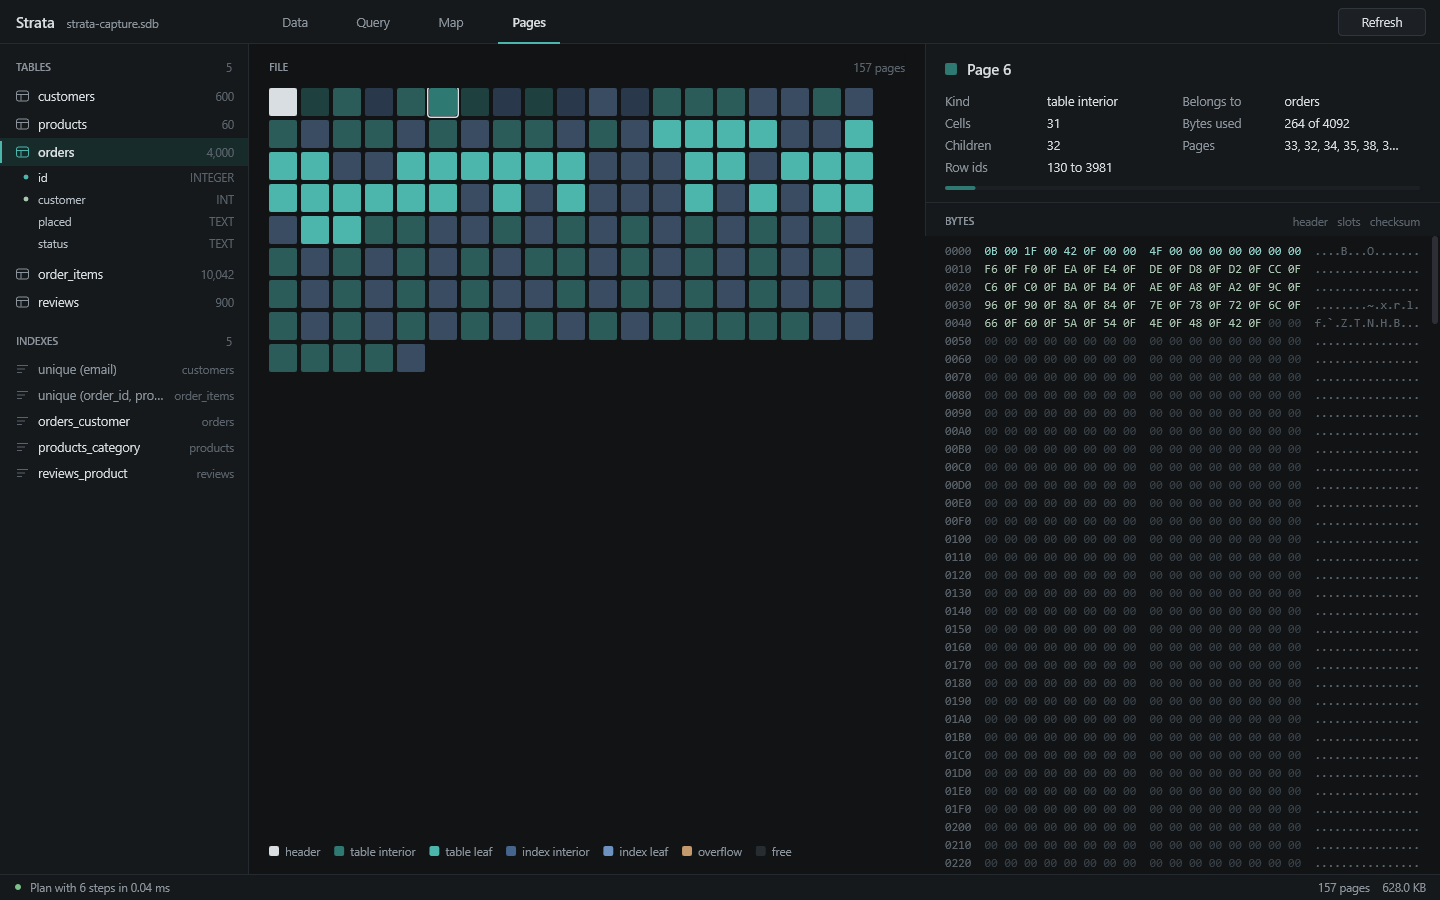
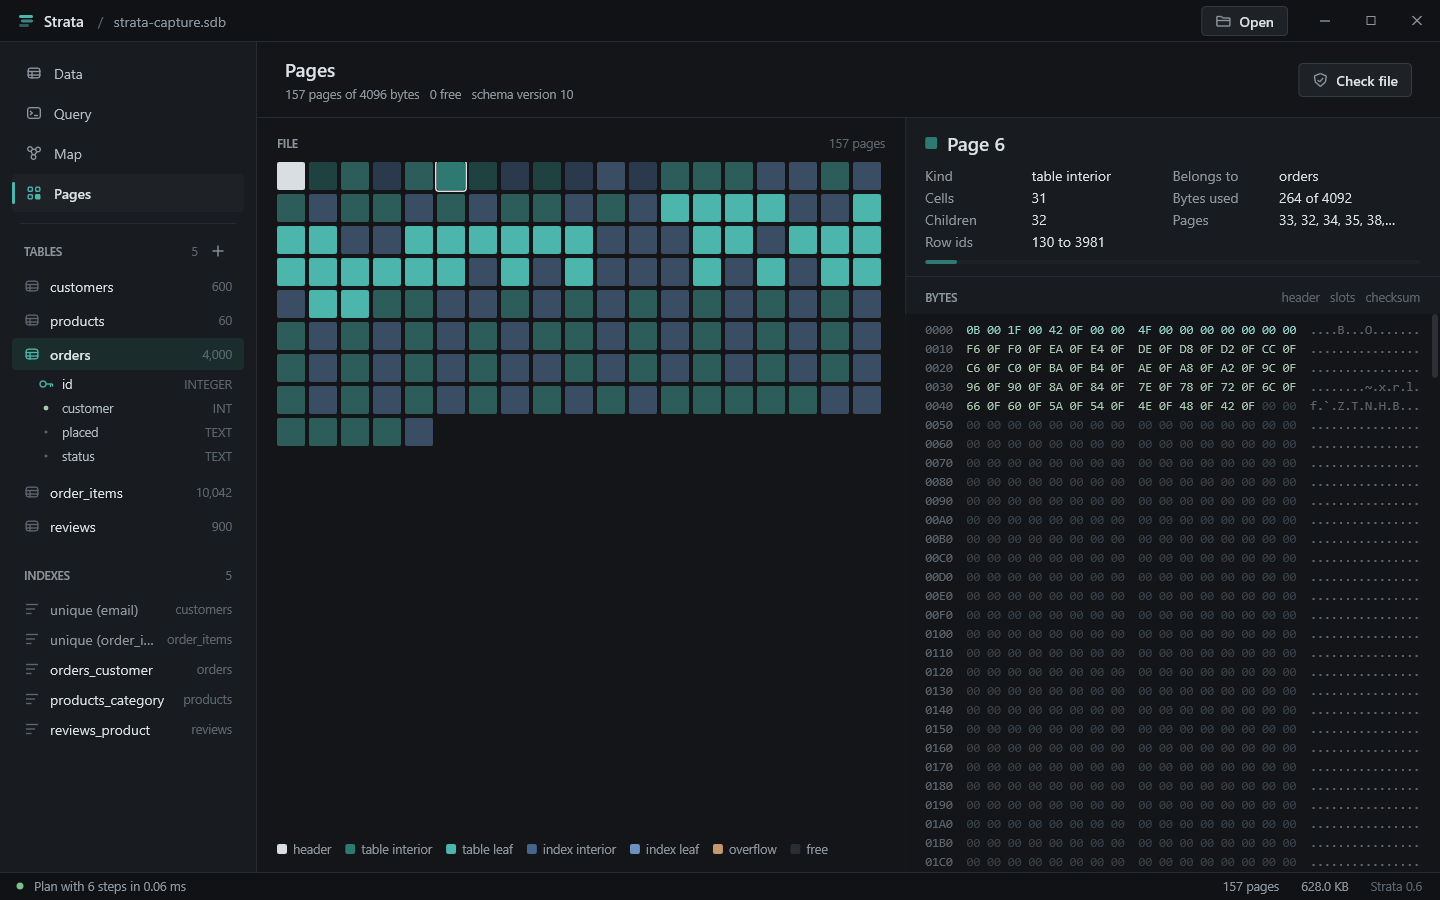
Update the README and screenshots for the new studio and engine features

diff --git a/README.md b/README.md
@@ -10,38 +10,61 @@ Strata is a single-file SQL database engine and a studio app for working with it
   - one file with 4 KB checksummed pages
   - B-trees with overflow chains
   - a write-ahead log that recovers from crashes at any write
-  - statement-level undo inside transactions
+  - statement undo and nested savepoints inside transactions
+  - VACUUM, which rewrites the file compactly, and VACUUM INTO for a copy
+  - an integrity check that walks every tree, follows the free list and matches every index entry to its row
 - **SQL:**
-  - SELECT with joins (inner, left, cross, USING), subqueries (scalar, IN, EXISTS, correlated, in FROM), GROUP BY and HAVING, DISTINCT, ORDER BY and LIMIT
+  - SELECT with inner, left, right, full, cross and natural joins, USING, subqueries (scalar, IN, EXISTS, correlated, in FROM), GROUP BY and HAVING, DISTINCT, ORDER BY and LIMIT
+  - WITH and WITH RECURSIVE, also in front of INSERT
+  - window functions with PARTITION BY, ORDER BY and ROWS or RANGE frames
   - UNION, INTERSECT and EXCEPT, plus VALUES
   - INSERT, UPDATE and DELETE, with OR REPLACE, OR IGNORE and ON CONFLICT DO UPDATE
-  - CREATE and DROP for tables and indexes, CREATE TABLE AS, and ALTER TABLE ADD COLUMN, RENAME TO and RENAME COLUMN
-  - BEGIN, COMMIT and ROLLBACK
-- **Constraints:** NOT NULL, UNIQUE, PRIMARY KEY, CHECK, DEFAULT, and foreign keys with RESTRICT, CASCADE and SET NULL.
+  - CREATE and DROP for tables and indexes, CREATE TABLE AS, and ALTER TABLE ADD COLUMN, DROP COLUMN, RENAME TO and RENAME COLUMN
+  - BEGIN, COMMIT, ROLLBACK, SAVEPOINT, RELEASE and ROLLBACK TO
+  - COLLATE NOCASE on columns and expressions
+- **Constraints:** NOT NULL, UNIQUE, PRIMARY KEY, CHECK, DEFAULT, generated columns, and foreign keys with RESTRICT, CASCADE and SET NULL.
+- **Full-text search:** `CREATE FULLTEXT INDEX` on any text columns, `MATCH` with AND, OR, NOT, prefixes and phrases, ranked with `bm25()`, and `highlight()` and `snippet()` to show where the words were found.
 - **Planner:**
   - row id lookups and ranges
-  - index seeks on prefixes and ranges
-  - join lookups through indexes
+  - index seeks on prefixes and ranges, and covering indexes that skip the table
+  - ORDER BY straight from an index
+  - ANALYZE statistics and a cost-based join order
   - EXPLAIN QUERY PLAN
 - **Functions:**
-  - text: length, substr, trim, replace, instr, upper, lower, printf, quote, hex
-  - numbers: round, abs
+  - text: length, substr, trim, replace, instr, upper, lower, printf with %e and %g, quote, hex
+  - numbers: round, abs, sign
   - nulls and branching: coalesce, ifnull, nullif, iif
+  - dates: date, time, datetime, julianday, unixepoch and strftime, with modifiers
+  - JSON: json, json_extract, json_object, json_array, `->` and `->>`, and JSON aggregates
   - aggregates: count, sum, total, avg, min, max, group_concat
+  - windows: row_number, rank, dense_rank, percent_rank, cume_dist, ntile, lag, lead, first_value, last_value and nth_value
 
 ## Strata Studio
 
-`strata-studio.exe` opens a database in a window. You can also drop a file onto the window. With no file given, it makes a sample database in `Documents\Strata`.
+`strata-studio.exe` opens a database in a window. Open files with Ctrl+O or drop them onto the window. With no file given, it makes a sample database in `Documents\Strata`.
 
 | | |
 |---|---|
 | ![Query](docs/images/query.png) | ![Plan](docs/images/plan.png) |
+| ![Editing a table](docs/images/editing.png) | ![Chart](docs/images/chart.png) |
+| ![Table designer](docs/images/designer.png) | ![Autocomplete](docs/images/autocomplete.png) |
 | ![Schema map](docs/images/map.png) | ![Storage map](docs/images/storage.png) |
 
-- **Data** browses a table, next to an inspector with its rows, storage, columns, indexes and references.
-- **Query** has a SQL editor with highlighting and undo. Run with Ctrl+Enter or F5. Results show in a grid, and Explain draws the plan.
-- **Map** has two views. Schema draws the tables and their foreign keys; you can drag the tables around. Storage draws each B-tree of a table, level by level, with a bar showing how full each page is.
-- **Pages** shows every page of the file as a grid of cells. Picking a page shows its details and a hex dump.
+- **Data** shows a table with its row count, pages and indexes above the rows.
+  - Double-click a cell to change it.
+  - Add and delete rows from the header.
+  - Changes wait in a transaction until you Save or Discard them.
+  - Import CSV or JSON from a file or the clipboard into a new table, with the column types worked out for you.
+  - Export to CSV or JSON.
+  - Design shows the columns and writes the CREATE or ALTER statements for your changes.
+- **Query** has tabs of SQL editors with highlighting, undo, and suggestions for tables, columns, functions and keywords.
+  - Run with Ctrl+Enter or F5.
+  - Results show as rows, as a bar or line chart, or as the plan from Explain.
+  - Every query you run goes into History, and you can save queries by name.
+- **Map** has two views:
+  - Schema draws the tables and their foreign keys, and you can drag the tables around.
+  - Storage draws each B-tree of a table, level by level, with a bar showing how full each page is.
+- **Pages** shows every page of the file as a grid of cells. Picking a page shows its details and a hex dump, and Check file runs the integrity check and marks any bad pages.
 
 ![Pages](docs/images/pages.png)
 
@@ -51,7 +74,7 @@ Strata is a single-file SQL database engine and a studio app for working with it
 strata <file>                open a database in the SQL shell
 strata <file> "<sql>"        run SQL and print the rows
 strata --studio [file]       open the studio
-strata --capture <folder>    render every studio view to PNG
+strata --capture <folder>    render every studio view to PNG and play a scripted session
 strata --test [part]         run the self test (pager, btree, crash, parser, engine)
 ```
 
